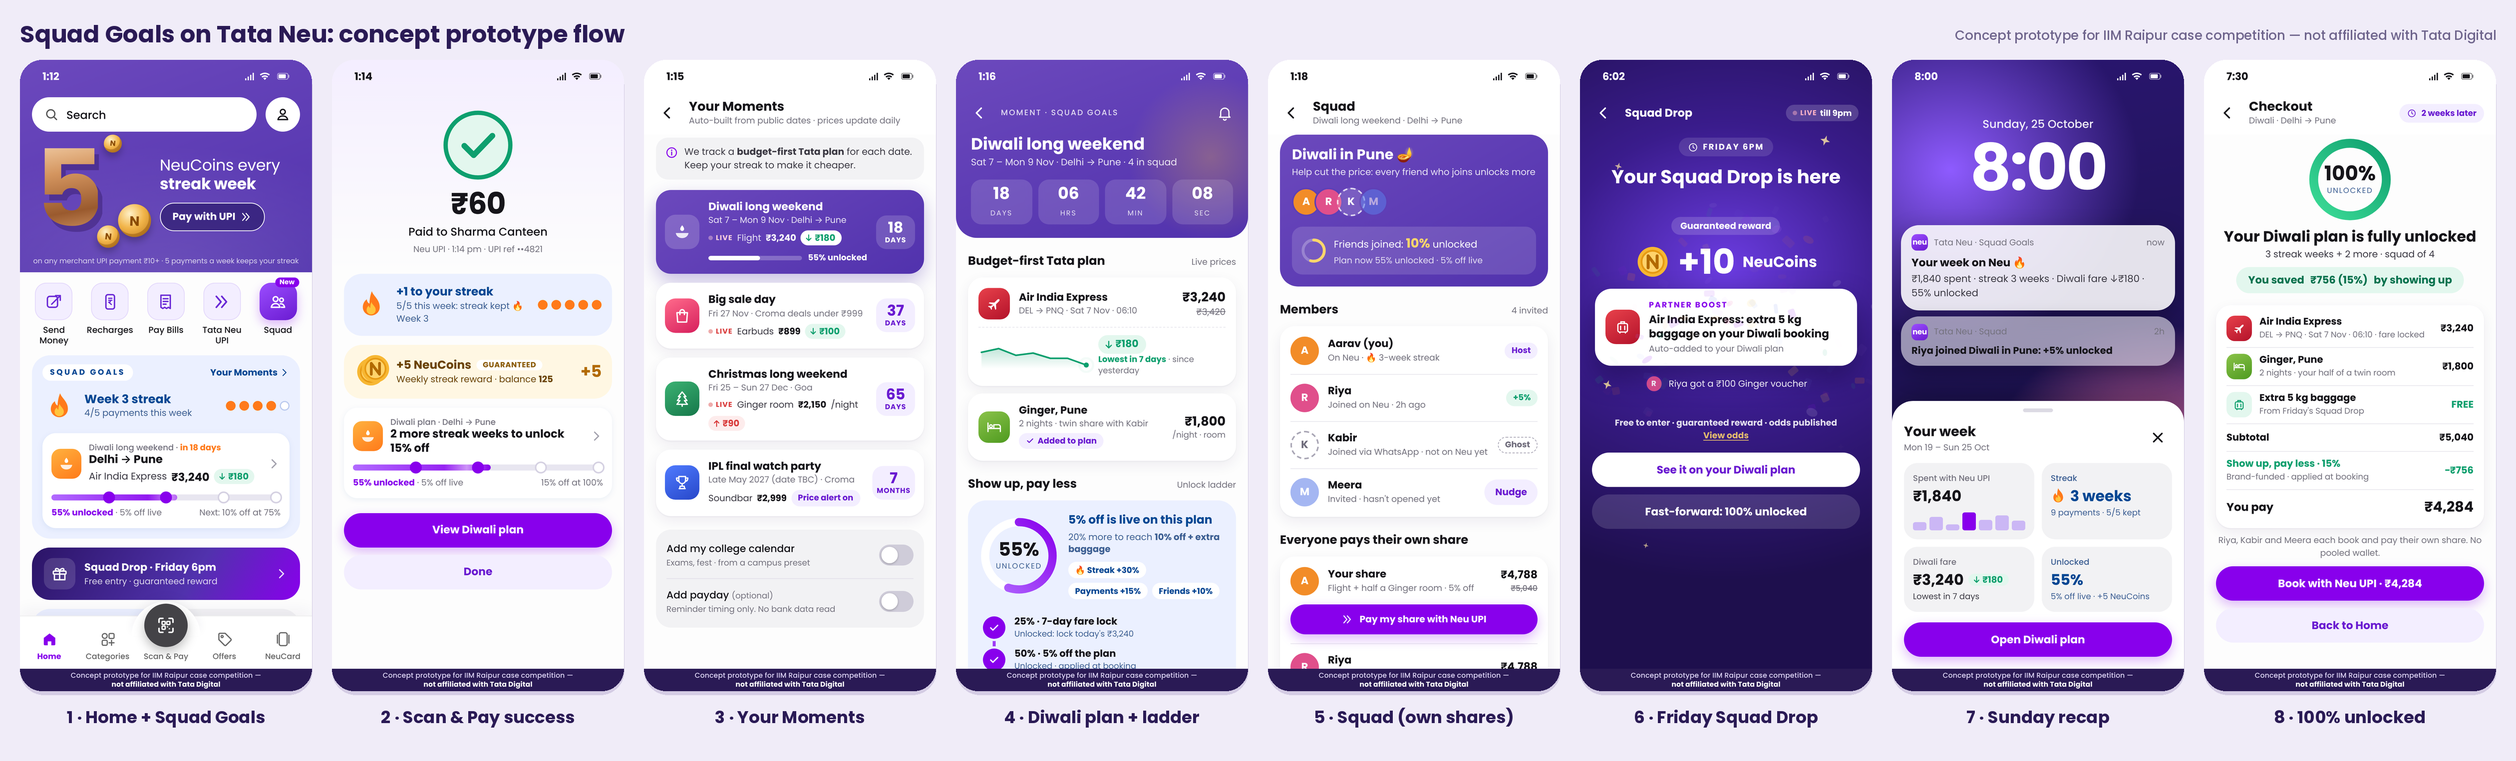
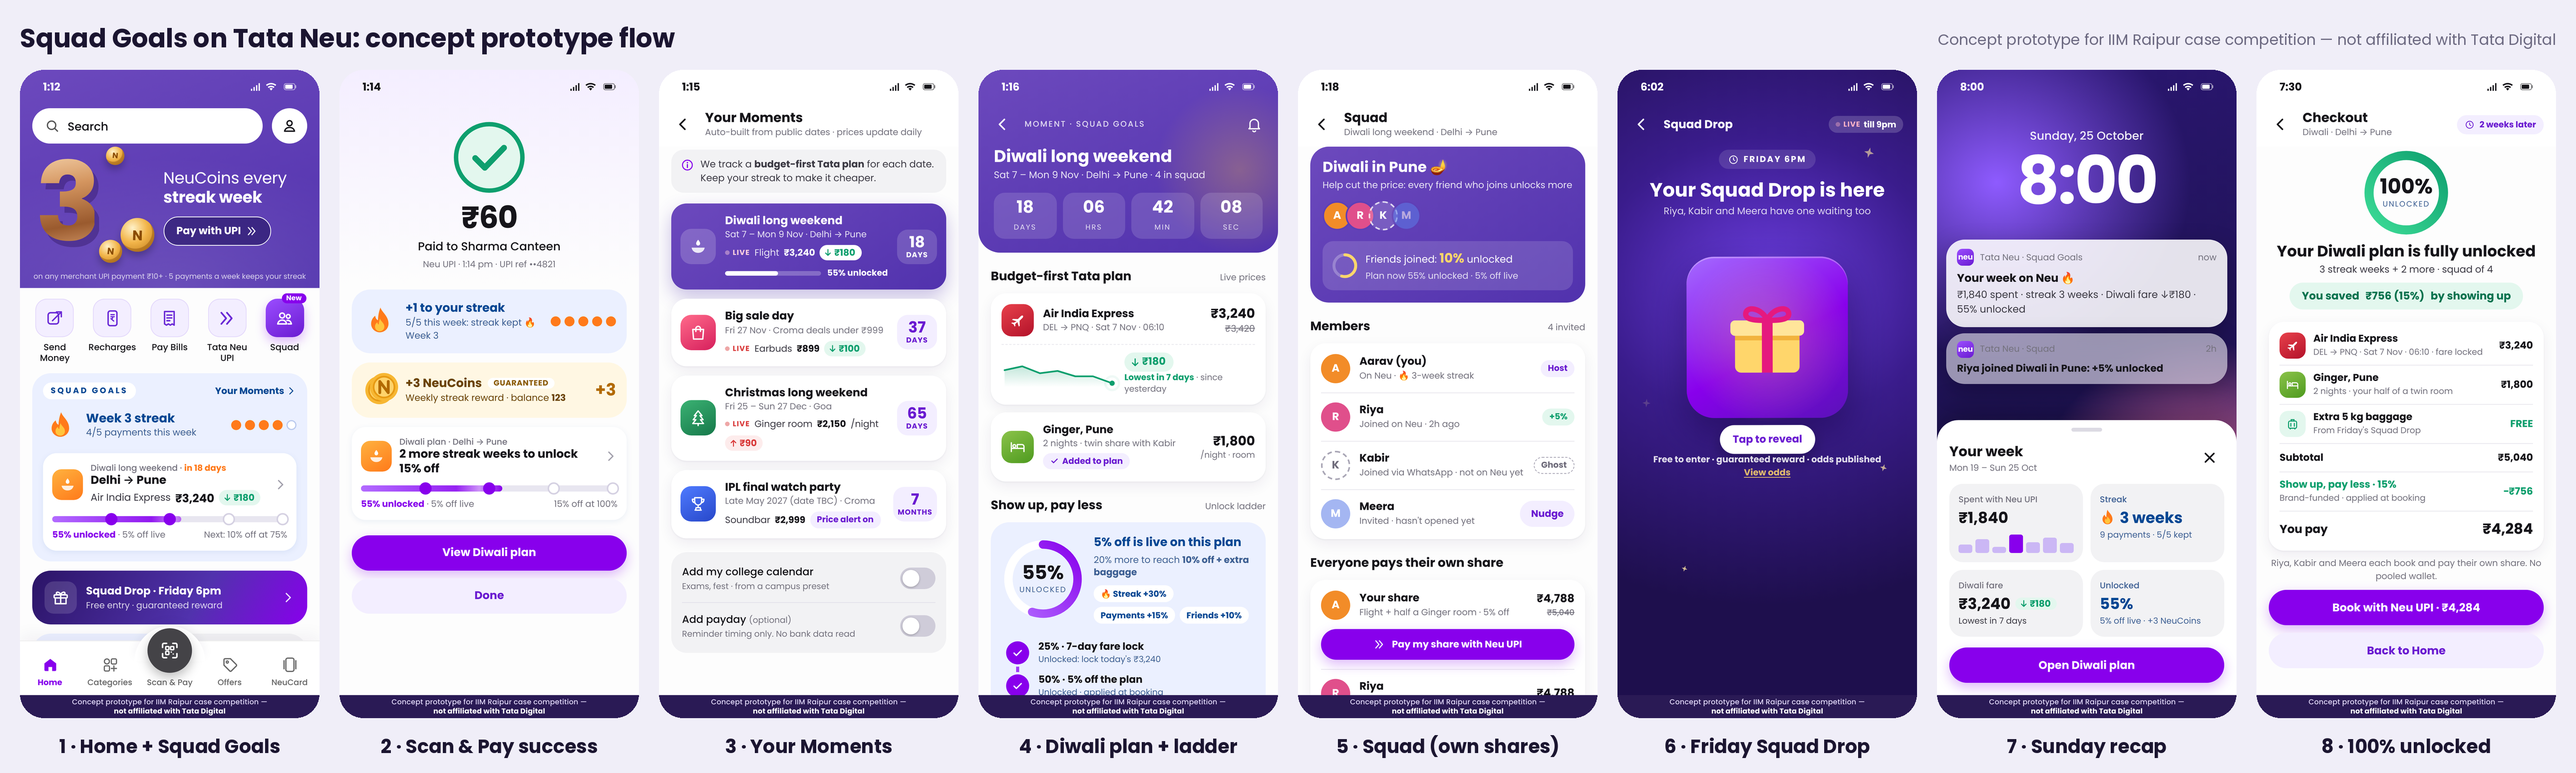
Lower coin rewards: +3 weekly streak, +2 Drop floor (brand-funded, within Rs 25 cap)
Claude-Session: https://claude.ai/code/session_01NNwYhKa6MTmKoXHApVsv4u

diff --git a/screens/pay_success.html b/screens/pay_success.html
@@ -2,7 +2,7 @@
   <template class="notes">
     <div class="nrow"><b class="k k-action">Action</b><span>A ₹60 canteen payment at a non-Tata merchant counts. Today's promo needs ₹299+, which leaves out a ₹20 chai or a ₹150 canteen bill. <i>Solves: Standalone preference.</i></span></div>
     <div class="nrow"><b class="k k-invest">Investment</b><span>5/5 keeps the week-3 streak: stored progress you'd lose by leaving. <i>Solves: Missing hook.</i></span></div>
-    <div class="nrow"><b class="k k-reward">Reward</b><span>A small <b>guaranteed</b> weekly reward (+5 NeuCoins, brand-funded, ≤ ₹25 per student a month).</span></div>
+    <div class="nrow"><b class="k k-reward">Reward</b><span>A small <b>guaranteed</b> weekly reward (+3 NeuCoins, brand-funded; with the Drop floor ≈ ₹22 a month max, under the ₹25 cap).</span></div>
     <div class="nrow"><b class="k k-trigger">Trigger</b><span>Links the daily payment to the next Moment: "2 more weeks to unlock 15%". <i>Solves: Event-based usage.</i></span></div>
   </template>
 
@@ -33,10 +33,10 @@
         <span class="jm"><b class="k-reward">Reward</b>Guaranteed floor</span>
         <span class="coinfly"><svg viewBox="0 0 24 24"><use href="assets/icons/sprite.svg#i-coin"/></svg><svg viewBox="0 0 24 24"><use href="assets/icons/sprite.svg#i-coin"/></svg></span>
         <div>
-          <div class="t1">+5 NeuCoins <span class="guar">GUARANTEED</span></div>
-          <div class="t2">Weekly streak reward · balance <b data-count="125" data-from="120" data-delay="1500" data-dur="900">125</b></div>
+          <div class="t1">+3 NeuCoins <span class="guar">GUARANTEED</span></div>
+          <div class="t2">Weekly streak reward · balance <b data-count="123" data-from="120" data-delay="1500" data-dur="900">123</b></div>
         </div>
-        <span class="plus">+5</span>
+        <span class="plus">+3</span>
       </div>
 
       <a class="mcard jm-host" hx-get="screens/moment_detail.html" style="margin-top:0">

diff --git a/screens/drop.html b/screens/drop.html
@@ -1,7 +1,7 @@
 <section class="scr dark" data-screen="drop" data-sb="light" data-time="6:02">
   <template class="notes">
     <div class="nrow"><b class="k k-trigger">Trigger</b><span>A fixed weekly time slot (Friday 6pm) that the whole squad opens together. <i>Solves: Missing hook.</i></span></div>
-    <div class="nrow"><b class="k k-reward">Variable reward</b><span>A guaranteed floor (+10 NeuCoins) plus a variable partner boost tied to the Moment (e.g. extra 5 kg baggage).</span></div>
+    <div class="nrow"><b class="k k-reward">Variable reward</b><span>A guaranteed floor (+2 NeuCoins, brand-funded) plus a variable partner boost tied to the Moment (e.g. extra 5 kg baggage).</span></div>
     <div class="nrow"><b class="k k-guard">Guardrail</b><span>Free to enter, guaranteed reward, odds published. No staking of coins and no "bet" or "jackpot" wording.</span></div>
   </template>
 
@@ -42,7 +42,7 @@
       </div>
       <div class="reveal">
         <span class="gl">Guaranteed reward</span>
-        <div class="big"><svg viewBox="0 0 24 24"><use href="assets/icons/sprite.svg#i-coin"/></svg>+10 <span style="font-size:20px;font-weight:600">NeuCoins</span></div>
+        <div class="big"><svg viewBox="0 0 24 24"><use href="assets/icons/sprite.svg#i-coin"/></svg>+2 <span style="font-size:20px;font-weight:600">NeuCoins</span></div>
         <div class="boostcard">
           <span class="pic air" style="width:46px;height:46px;border-radius:14px"><svg class="ic"><use href="assets/icons/sprite.svg#i-suitcase"/></svg></span>
           <div>
@@ -62,7 +62,7 @@
     </div>
     <div class="odds">
       <table>
-        <tr><td>+10 NeuCoins (floor)</td><td>Everyone</td></tr>
+        <tr><td>+2 NeuCoins (floor)</td><td>Everyone</td></tr>
         <tr><td>+ Fare-lock extended by 3 days</td><td>1 in 2</td></tr>
         <tr><td>+ Extra 5 kg baggage (Air India Express)</td><td>1 in 4</td></tr>
         <tr><td>+ ₹100 Ginger voucher</td><td>1 in 4</td></tr>

diff --git a/screens/recap.html b/screens/recap.html
@@ -55,7 +55,7 @@
         <div class="rbox np">
           <div class="k">Unlocked</div>
           <div class="v" data-count="55" data-suffix="%" data-delay="600">55%</div>
-          <div class="s">5% off live · +5 NeuCoins</div>
+          <div class="s">5% off live · +3 NeuCoins</div>
         </div>
       </div>
       <a class="pill pri block" style="margin-top:14px" hx-get="screens/moment_detail.html">Open Diwali plan</a>

diff --git a/screens/home.html b/screens/home.html
@@ -15,7 +15,7 @@
       </div>
       <div class="hero-ban">
         <div class="art" aria-hidden="true">
-          <div class="five">5</div>
+          <div class="five">3</div>
           <div class="coin3d c3">N</div>
           <div class="coin3d c1">N</div>
           <div class="coin3d c2">N</div>
